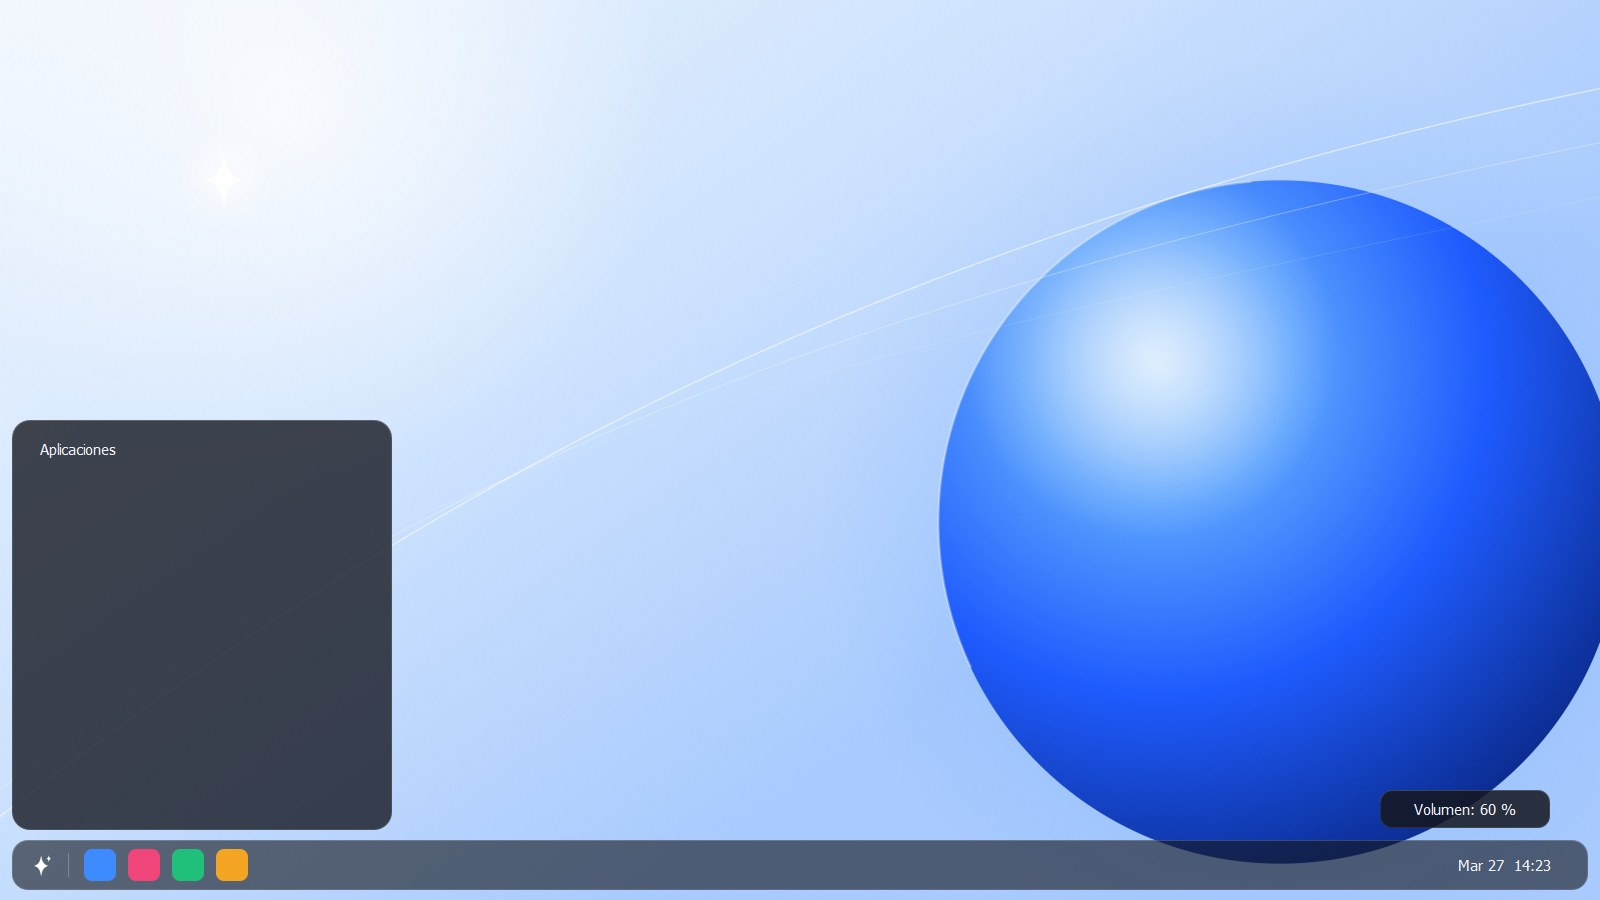
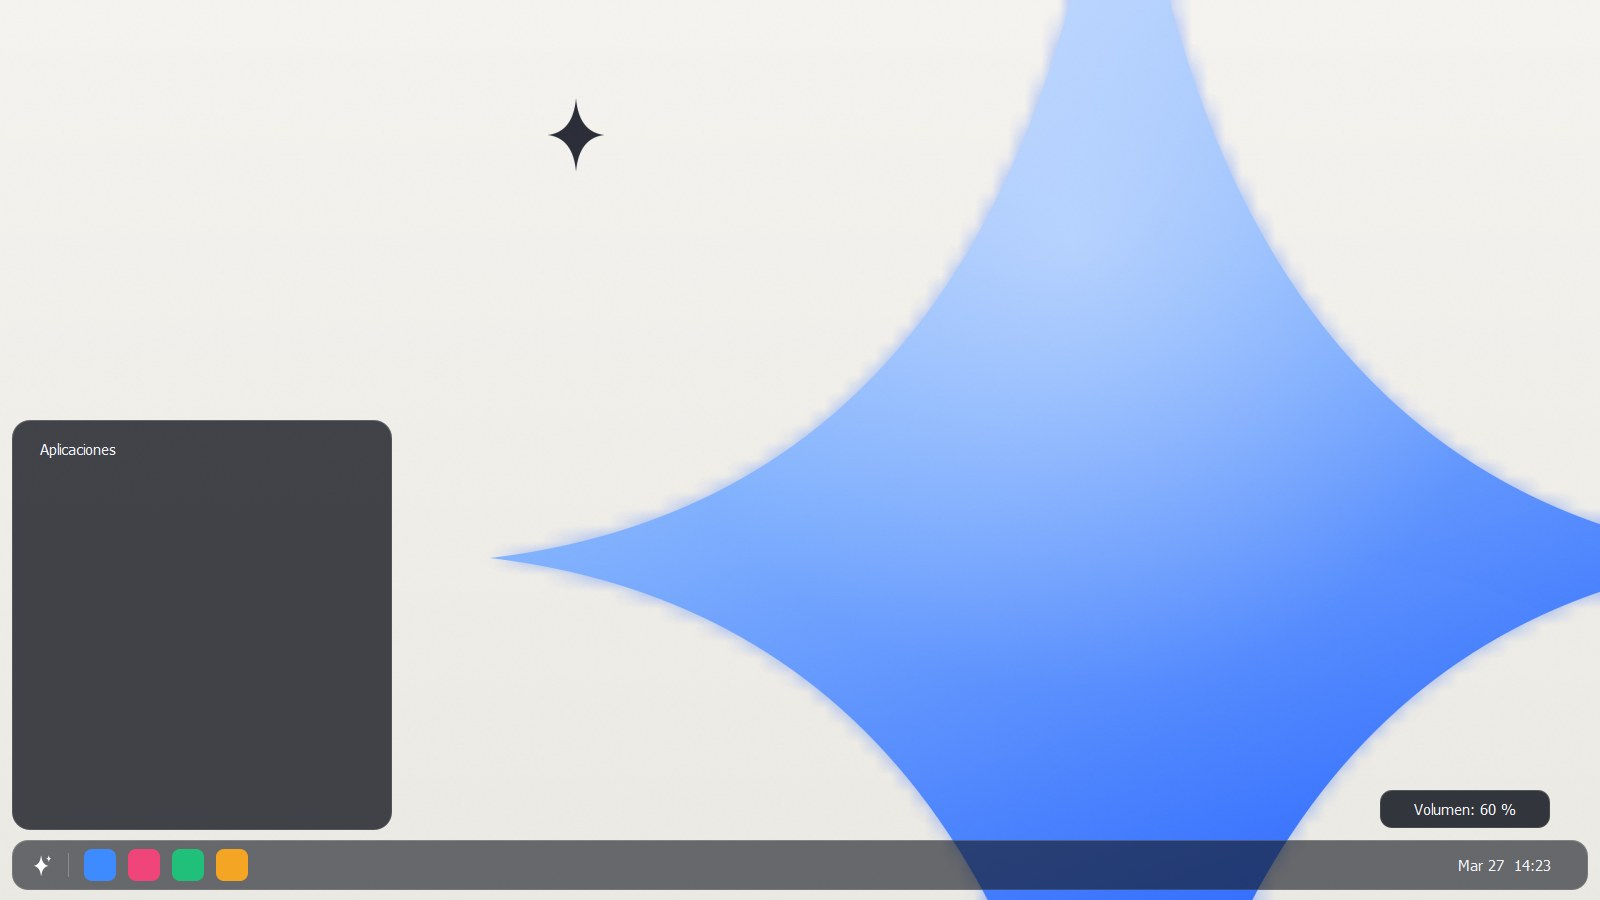
Fondo «Destello»: minimalista, abstracto y propio de Luma
Sustituye los fondos anteriores (esfera y cintas de luz) por una estrella de
Luma gigante recortada y rellena de luz, con resplandor difuminado: azul sobre
blanco cálido en claro, naranja a magenta sobre negro en oscuro. Se usa en el
escritorio, el inicio de sesión y la pantalla de bloqueo.

diff --git a/build_files/tools/render_wallpapers.py b/build_files/tools/render_wallpapers.py
@@ -1,26 +1,36 @@
 #!/usr/bin/python3
-"""Genera los fondos de pantalla de Luma OS como paquetes de Plasma.
+"""Genera el fondo de pantalla de Luma OS («Destello») como paquete de Plasma.
 
 Uso: render_wallpapers.py <directorio de salida> [ancho alto]
 
 Crea <salida>/Luma con la versión clara (contents/images) y oscura
 (contents/images_dark): Plasma cambia entre ellas según el esquema de color.
-Los fondos son propios de Luma: formas luminosas suaves (esfera, cintas de luz,
-destello de estrella) siguiendo docs/DESIGN.md.
+
+«Destello»: una estrella de Luma gigante, recortada por el borde y rellena de luz,
+con un resplandor difuminado y una estrella pequeña y nítida que la acompaña.
+Minimalista, abstracto y propio de Luma (docs/DESIGN.md).
 """
 
 import json
-import math
 import os
 import sys
 from pathlib import Path
 
 os.environ.setdefault("QT_QPA_PLATFORM", "offscreen")
 
-from PySide6.QtCore import QPointF, QRectF, Qt  # noqa: E402
+from PySide6.QtCore import QPointF, Qt  # noqa: E402
 from PySide6.QtGui import (  # noqa: E402
-    QBrush, QColor, QGuiApplication, QImage, QLinearGradient, QPainter, QPainterPath, QPen, QRadialGradient,
+    QBrush, QColor, QGuiApplication, QImage, QLinearGradient, QPainter, QPainterPath, QRadialGradient,
 )
+
+PALETTES = {
+    False: dict(  # claro: azul sobre blanco cálido
+        bg=("#F6F4F0", "#ECEAE4"), glow="#5B8CFF", glow_alpha=150,
+        stops=[(0, "#DCEBFF"), (0.4, "#7FB0FF"), (0.75, "#2F6BFF"), (1, "#5B3BE0")], small="#1A1D29"),
+    True: dict(  # oscuro: luz cálida de naranja a magenta sobre negro
+        bg=("#07080D", "#0B0C14"), glow="#FF7A45", glow_alpha=210,
+        stops=[(0, "#FFD29A"), (0.35, "#FF7A45"), (0.7, "#E8366F"), (1, "#5B2BD9")], small="#FFFFFF"),
+}
 
 
 def color(hex_value, alpha=255):
@@ -39,127 +49,61 @@ def star_path(cx, cy, r_v, r_h, waist):
     return p
 
 
-def glow(p, cx, cy, radius, hex_value, alpha):
-    g = QRadialGradient(cx, cy, radius)
-    g.setColorAt(0, color(hex_value, alpha))
-    g.setColorAt(1, color(hex_value, 0))
-    p.setBrush(QBrush(g))
-    p.setPen(Qt.PenStyle.NoPen)
-    p.drawEllipse(QPointF(cx, cy), radius, radius)
+def blur(img, factor=40):
+    """Desenfoque amplio: reduce en varios pasos y vuelve a ampliar suavemente."""
+    w, h = img.width(), img.height()
+    small = img
+    for k in (2, 4, 8, factor):
+        small = small.scaled(max(2, w // k), max(2, h // k), Qt.AspectRatioMode.IgnoreAspectRatio,
+                             Qt.TransformationMode.SmoothTransformation)
+    for k in (8, 4, 2, 1):
+        small = small.scaled(w // k, h // k, Qt.AspectRatioMode.IgnoreAspectRatio,
+                             Qt.TransformationMode.SmoothTransformation)
+    return small
 
 
-def ribbon(p, path, hex_value, width, strength=1.0):
-    """Cinta de luz: muchas pasadas de trazo con anchura y opacidad graduales simulan el resplandor."""
-    steps = 24
-    for i in range(steps):
-        t = i / (steps - 1)  # 0 = halo exterior, 1 = núcleo
-        w = width * (0.4 + 7.0 * (1 - t) ** 2)
-        a = 4 + 26 * t ** 3
-        pen = QPen(color(hex_value, int(a * strength)), w)
-        pen.setCapStyle(Qt.PenCapStyle.RoundCap)
-        p.setPen(pen)
-        p.setBrush(Qt.BrushStyle.NoBrush)
-        p.drawPath(path)
-
-
-def render_day(w, h):
+def render(w, h, dark):
+    pal = PALETTES[dark]
+    s = h / 1080
+    # Lienzo de 16 bits por canal para degradados limpios
     img = QImage(w, h, QImage.Format.Format_RGBX64)
     p = QPainter(img)
     p.setRenderHint(QPainter.RenderHint.Antialiasing)
-    s = h / 2160
+    bg = QLinearGradient(0, 0, 0, h)
+    bg.setColorAt(0, QColor(pal["bg"][0]))
+    bg.setColorAt(1, QColor(pal["bg"][1]))
+    p.fillRect(img.rect(), bg)
 
-    sky = QLinearGradient(0, 0, w * 0.4, h)
-    sky.setColorAt(0, QColor("#F2F8FF"))
-    sky.setColorAt(0.55, QColor("#CFE4FF"))
-    sky.setColorAt(1, QColor("#A9CBFF"))
-    p.fillRect(img.rect(), sky)
+    cx, cy = w * 0.70, h * 0.62
+    shape = star_path(cx, cy, h * 0.95, h * 0.70, h * 0.075)
 
-    glow(p, w * 0.18, h * 0.12, 900 * s, "#FFFFFF", 200)
+    # Resplandor difuminado detrás de la estrella
+    glow = QImage(w, h, QImage.Format.Format_ARGB32_Premultiplied)
+    glow.fill(Qt.GlobalColor.transparent)
+    g = QPainter(glow)
+    g.setRenderHint(QPainter.RenderHint.Antialiasing)
+    g.setPen(Qt.PenStyle.NoPen)
+    g.setBrush(color(pal["glow"], pal["glow_alpha"]))
+    g.drawPath(shape)
+    g.end()
+    p.drawImage(0, 0, blur(glow))
 
-    # Esfera de cristal azul, parcialmente fuera de la pantalla
-    cx, cy, r = w * 0.80, h * 0.58, 820 * s
-    glow(p, cx, cy, r * 1.35, "#3D8BFF", 70)
-    body = QRadialGradient(cx - r * 0.35, cy - r * 0.45, r * 1.6)
-    body.setColorAt(0.0, QColor("#B9DCFF"))
-    body.setColorAt(0.25, QColor("#5AA2FF"))
-    body.setColorAt(0.6, QColor("#1E5BFF"))
-    body.setColorAt(1.0, QColor("#0A2A8C"))
-    p.setBrush(QBrush(body))
+    # Estrella rellena de luz
+    grad = QLinearGradient(cx - h * 0.4, cy - h * 0.9, cx + h * 0.3, cy + h * 0.9)
+    for t, col in pal["stops"]:
+        grad.setColorAt(t, QColor(col))
     p.setPen(Qt.PenStyle.NoPen)
-    p.drawEllipse(QPointF(cx, cy), r, r)
-    # Brillo especular y borde iluminado
-    spec = QRadialGradient(cx - r * 0.38, cy - r * 0.5, r * 0.55)
-    spec.setColorAt(0, color("#FFFFFF", 150))
-    spec.setColorAt(1, color("#FFFFFF", 0))
-    p.setBrush(QBrush(spec))
-    p.drawEllipse(QPointF(cx, cy), r, r)
-    rim = QPen(color("#FFFFFF", 90), 6 * s)
-    p.setPen(rim)
-    p.setBrush(Qt.BrushStyle.NoBrush)
-    p.drawArc(QRectF(cx - r, cy - r, 2 * r, 2 * r), 95 * 16, 110 * 16)
+    p.setBrush(QBrush(grad))
+    p.drawPath(shape)
+    highlight = QRadialGradient(cx - h * 0.05, cy - h * 0.35, h * 0.5)
+    highlight.setColorAt(0, color("#FFFFFF", 90))
+    highlight.setColorAt(1, color("#FFFFFF", 0))
+    p.setBrush(QBrush(highlight))
+    p.drawPath(shape)
 
-    # Arcos finos de luz que cruzan la pantalla
-    for i, (alpha, off) in enumerate([(150, 0), (90, 140), (55, 290)]):
-        arc = QPainterPath(QPointF(-200 * s, h * (0.98 - i * 0.03)))
-        arc.cubicTo(w * 0.25, h * (0.55 - i * 0.05) + off * s * 0.2, w * 0.55, h * 0.25 + off * s, w + 200 * s, h * (0.08 + i * 0.06))
-        pen = QPen(color("#FFFFFF", alpha), (3.2 - i) * s)
-        p.setPen(pen)
-        p.drawPath(arc)
-
-    # Destello de estrella sutil
-    p.setPen(Qt.PenStyle.NoPen)
-    glow(p, w * 0.14, h * 0.2, 120 * s, "#FFFFFF", 160)
-    p.setBrush(color("#FFFFFF", 235))
-    p.drawPath(star_path(w * 0.14, h * 0.2, 70 * s, 50 * s, 6 * s))
-    p.end()
-    return finish(img)
-
-
-def render_night(w, h):
-    img = QImage(w, h, QImage.Format.Format_RGBX64)
-    p = QPainter(img)
-    p.setRenderHint(QPainter.RenderHint.Antialiasing)
-    s = h / 2160
-
-    sky = QLinearGradient(0, 0, w * 0.3, h)
-    sky.setColorAt(0, QColor("#05070F"))
-    sky.setColorAt(0.6, QColor("#0B1024"))
-    sky.setColorAt(1, QColor("#1A0F2E"))
-    p.fillRect(img.rect(), sky)
-
-    glow(p, w * 0.75, h * 0.95, 1300 * s, "#8B5CF6", 60)
-    glow(p, w * 0.2, h * 0.9, 900 * s, "#F5A524", 28)
-
-    # Cintas de luz que entran desde la izquierda y se curvan
-    def band(y0, y1, y2, y3, x2f, x3f):
-        path = QPainterPath(QPointF(-300 * s, h * y0))
-        path.cubicTo(w * 0.35, h * y1, w * x2f, h * y2, w * x3f, h * y3)
-        return path
-
-    ribbon(p, band(0.36, 0.30, 0.58, 0.62, 0.62, 1.05), "#FF8A1F", 26 * s, 1.0)
-    ribbon(p, band(0.52, 0.45, 0.80, 0.86, 0.70, 1.08), "#F5A524", 14 * s, 0.75)
-    ribbon(p, band(0.22, 0.20, 0.42, 0.40, 0.55, 1.06), "#FF5A3C", 10 * s, 0.55)
-    ribbon(p, band(0.70, 0.66, 0.95, 1.05, 0.52, 0.95), "#8B5CF6", 18 * s, 0.6)
-
-    # Estrellas lejanas
-    p.setPen(Qt.PenStyle.NoPen)
-    seed = 7
-    for _ in range(140):
-        seed = (seed * 1103515245 + 12345) & 0x7FFFFFFF
-        x = (seed % 10000) / 10000 * w
-        seed = (seed * 1103515245 + 12345) & 0x7FFFFFFF
-        y = (seed % 10000) / 10000 * h * 0.7
-        seed = (seed * 1103515245 + 12345) & 0x7FFFFFFF
-        r = (0.6 + (seed % 100) / 100 * 1.8) * s
-        p.setBrush(color("#FFFFFF", 70 + seed % 120))
-        p.drawEllipse(QPointF(x, y), r, r)
-
-    # Destello de Luma
-    glow(p, w * 0.82, h * 0.18, 260 * s, "#9DB8FF", 120)
-    p.setBrush(color("#FFFFFF", 245))
-    p.drawPath(star_path(w * 0.82, h * 0.18, 110 * s, 80 * s, 9 * s))
-    p.setBrush(color("#FFFFFF", 200))
-    p.drawPath(star_path(w * 0.82 + 120 * s, h * 0.18 - 95 * s, 34 * s, 26 * s, 3 * s))
+    # Estrella compañera, pequeña y nítida
+    p.setBrush(color(pal["small"], 235))
+    p.drawPath(star_path(w * 0.36, h * 0.15, 44 * s, 34 * s, 3.5 * s))
     p.end()
     return finish(img)
 
@@ -208,7 +152,7 @@ def main():
     out = sys.argv[1]
     w, h = (int(sys.argv[2]), int(sys.argv[3])) if len(sys.argv) > 3 else (3840, 2160)
     app = QGuiApplication(sys.argv[:1])  # noqa: F841 (necesaria para QPainter)
-    write_package(out, "Luma", "Luma", render_day(w, h), render_night(w, h))
+    write_package(out, "Luma", "Luma · Destello", render(w, h, False), render(w, h, True))
     print(f"Fondos generados en {out}/Luma ({w}x{h})")
 
 

diff --git a/docs/DESIGN.md b/docs/DESIGN.md
@@ -115,7 +115,14 @@ Cursor propio **«Luma Pointer»**: flecha grande y redondeada, relleno blanco, 
 - El fondo de pantalla se ve sin oscurecer.
 
 ### Fondos de pantalla
-Formas 3D suaves y luminosas: esferas, cintas de luz y nubes redondeadas. Cada fondo tiene versión clara y oscura. Son fondos propios de Luma, generados para el proyecto.
+Minimalistas, abstractos y propios de Luma, construidos con la geometría de la estrella. El fondo por defecto es **«Destello»**: una estrella de Luma gigante recortada por el borde y rellena de luz, con un resplandor difuminado y una estrella pequeña y nítida que la acompaña. Tiene mucho espacio vacío para que la barra y las ventanas respiren.
+- **Claro:** azul sobre blanco cálido (`#F6F4F0`).
+- **Oscuro:** luz cálida de naranja a magenta sobre negro (`#07080D`).
+
+Se generan en el build (`build_files/tools/render_wallpapers.py`) con grano fino para evitar bandas. Se usan en el escritorio, el inicio de sesión y la pantalla de bloqueo.
+
+### Cursor
+Punta de flecha sin tallo con muesca en la base, esquinas muy redondeadas, contorno negro grueso, relleno blanco y sombra difuminada. La mano, el texto y los cursores de espera usan el mismo trazo.
 
 ## Logo
 
